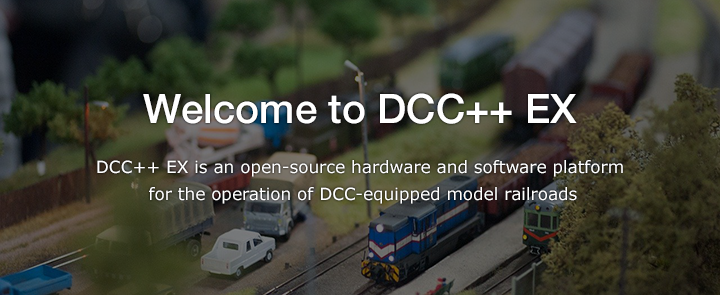
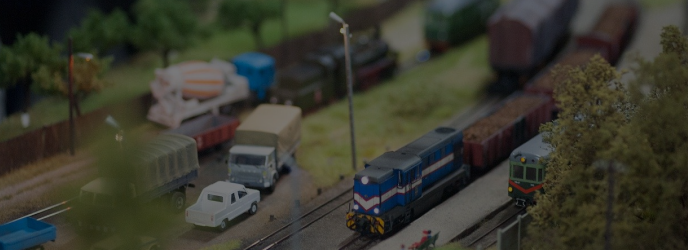
Added HTML based background image instead of using <img> tag
Now the homepage image looks shrp and crip and with reduced size.

diff --git a/docs/stylesheets/extra.css b/docs/stylesheets/extra.css
@@ -19,6 +19,38 @@
     width: 5.4rem;
     height: 1.8rem;
 }
+
+#welcome-to-the-dcc-ex.title{
+    background: url(../images/home_welcm.png);
+    background-repeat: no-repeat;
+    font-weight: bold;
+    opacity: 1;
+    color: #ffffff;
+    text-align: center;
+    width:100%;
+    height: 130px;
+    padding-top: 70px;
+    margin-bottom: 0;
+    background-position: 0 0;
+    font-size: 2.2rem;
+}
+.md-typeset p.descript{
+        background: url(../images/home_welcm.png);
+        background-position: 0px -130px;
+        background-repeat: no-repeat;
+        opacity: 1;
+        color: #ffffff;
+        text-align: center;
+        width: 100%;
+        height: 120px;
+        padding: 40px;
+        margin-top: 0;
+        padding-top: 0px;
+        font-size: 1.1em;
+        line-height: 1.4em;
+        margin-bottom: 50px;
+}
+
 @media screen and (max-width: 76.1875em){
     .md-nav--primary .md-nav__title .md-nav__icon {
         top: 0.9rem;

diff --git a/docs/index.md b/docs/index.md
@@ -1,6 +1,10 @@
-![welcome](images/home_welcm.png)
 
-Welcome to the DCC++ EX Web page. DCC++ EX is an open-source hardware and software platform for the operation of DCC-equipped model railroads. It is based on Gregg E. Berman's Arduino based DCC++ software. DCC-EX picks up where the original DCC++ left off by addressing some previous issues in order to be able to release what we now call "DCC++ Classic" - Everything you enjoyed in the original version in a stable release. In addition, we have have continued development with an all new version called "DCC-EX" that includes enhancements and upgrades. We intend to organize this all in one place so that development can continue and the platform can adjust to new hardware and technnology.
+# Welcome to the DCC++ EX # {: .title}
+An open-source hardware and software platform for the operation<br/>
+of DCC-equipped model railroads.
+{: .descript}
+
+DCC++ EX is based on Gregg E. Berman's Arduino based DCC++ software. DCC-EX picks up where the original DCC++ left off by addressing some previous issues in order to be able to release what we now call "DCC++ Classic" - Everything you enjoyed in the original version in a stable release. In addition, we have have continued development with an all new version called "DCC-EX" that includes enhancements and upgrades. We intend to organize this all in one place so that development can continue and the platform can adjust to new hardware and technnology.
 
 # Our Mission
 
